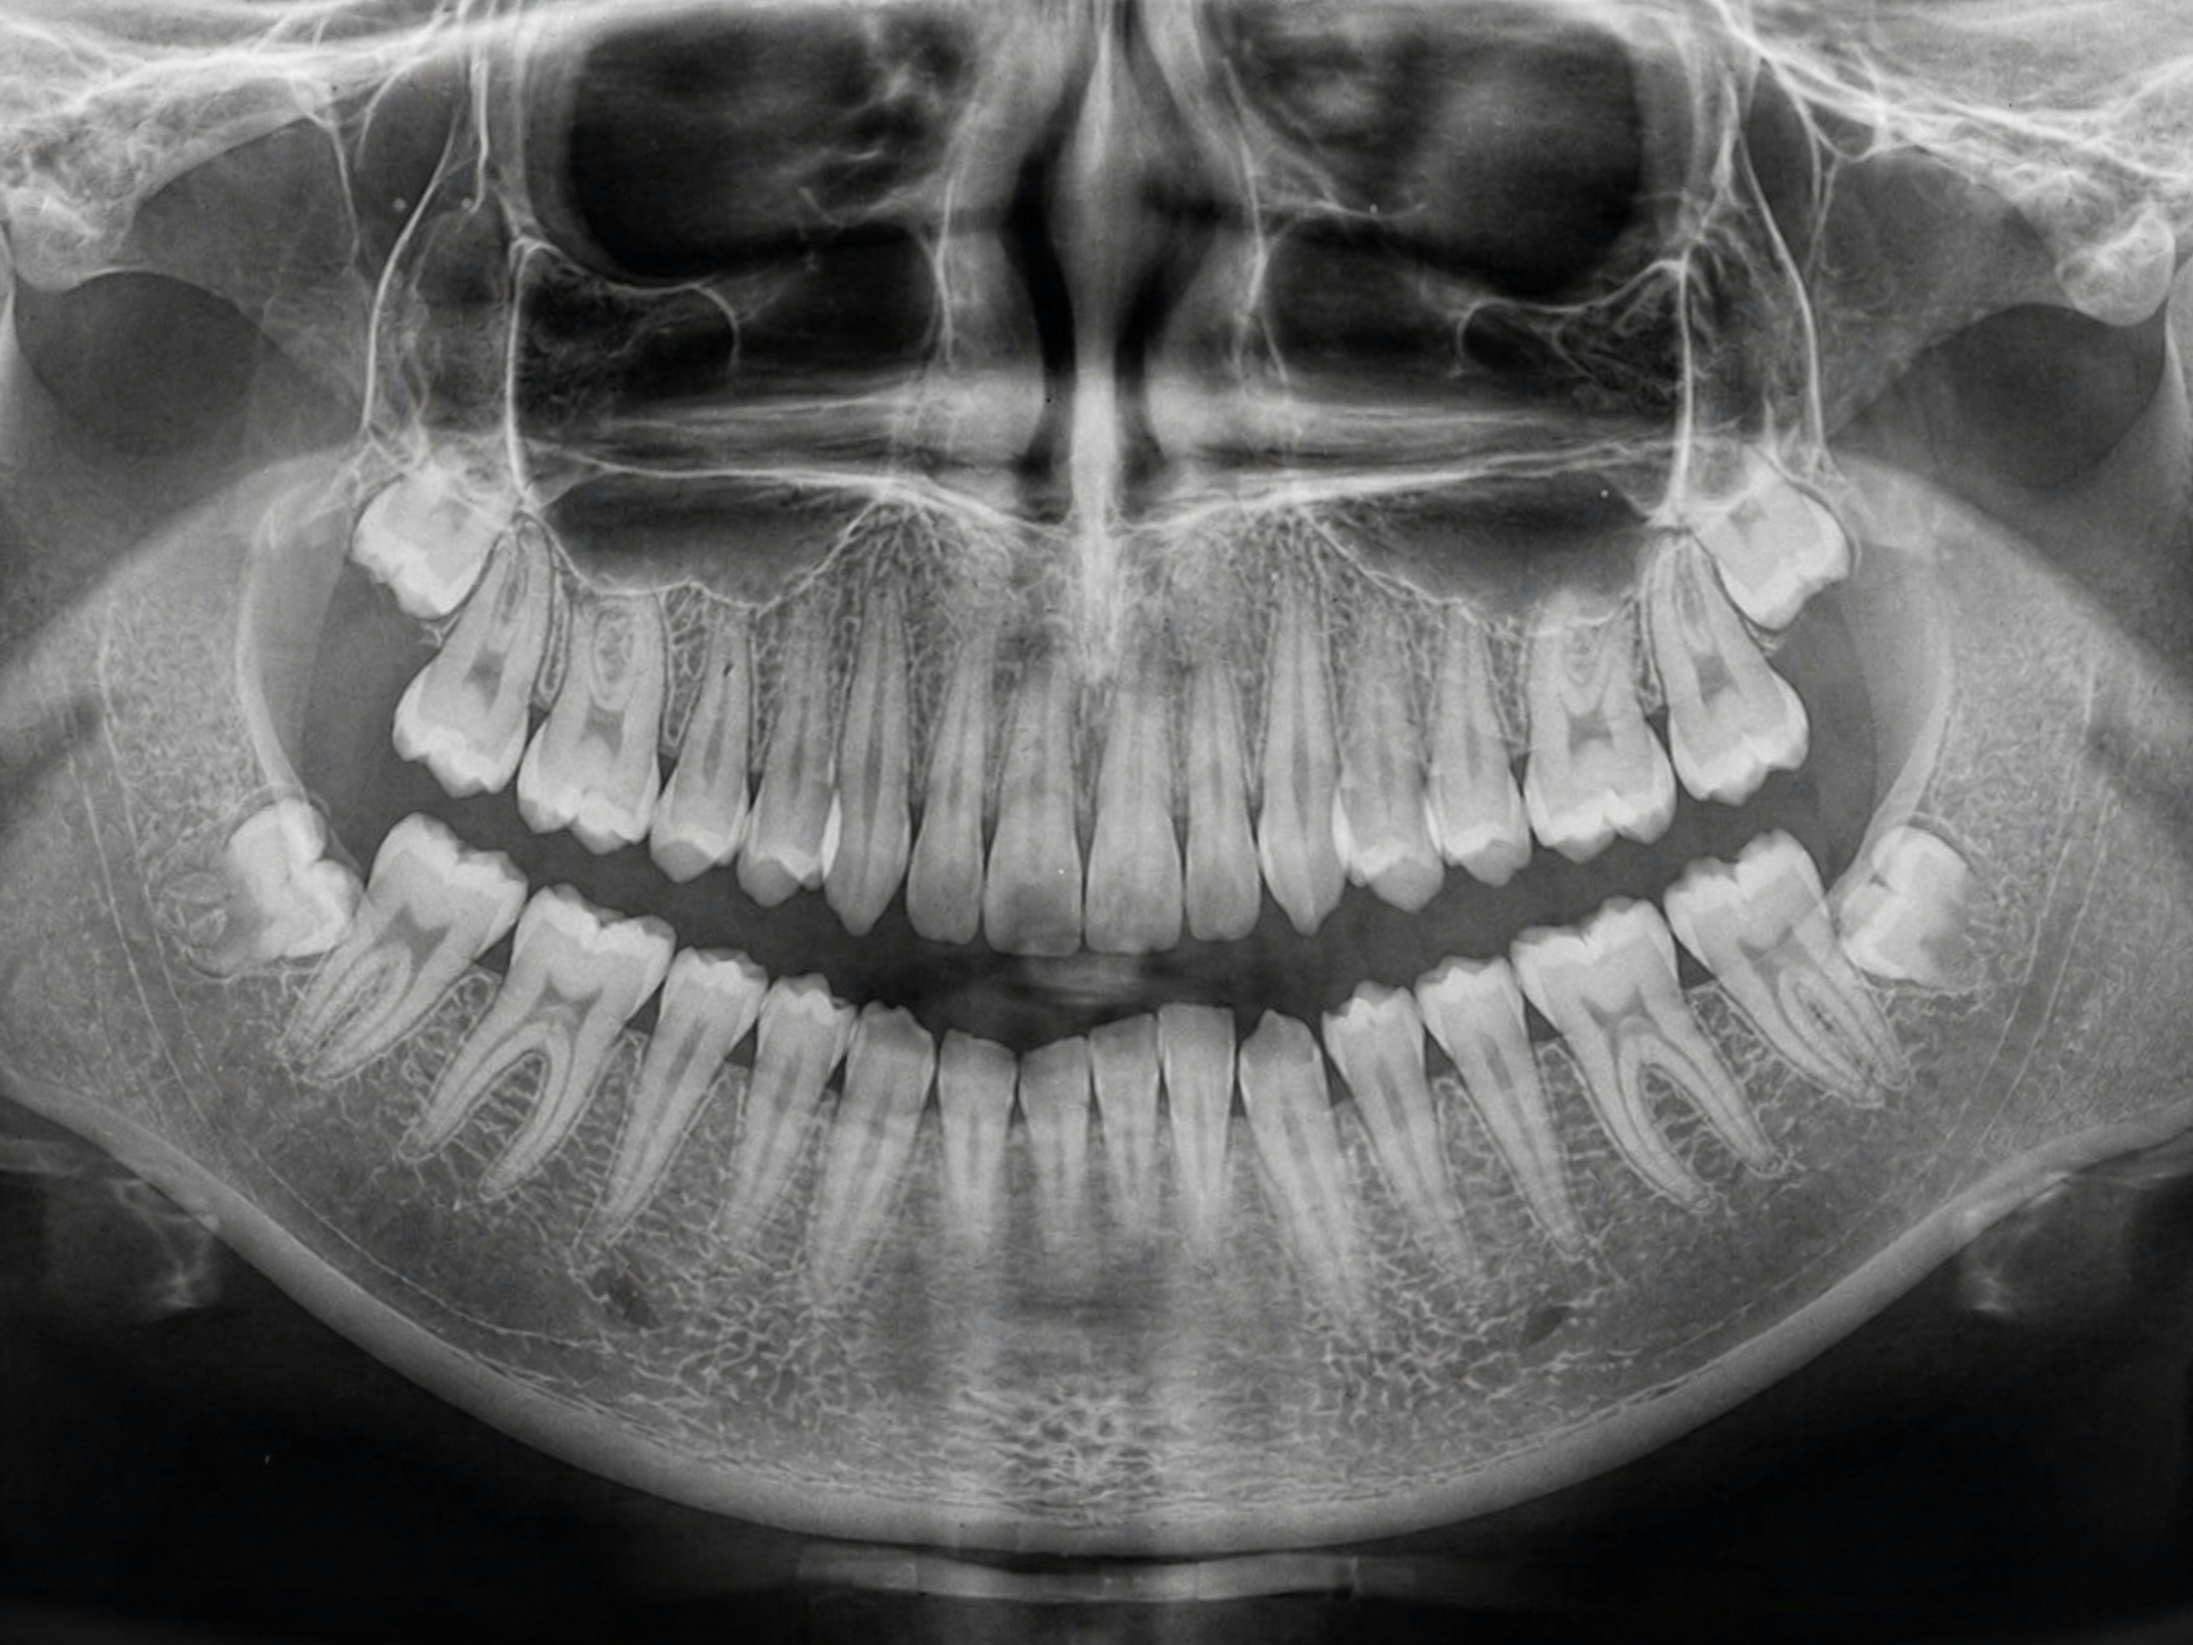
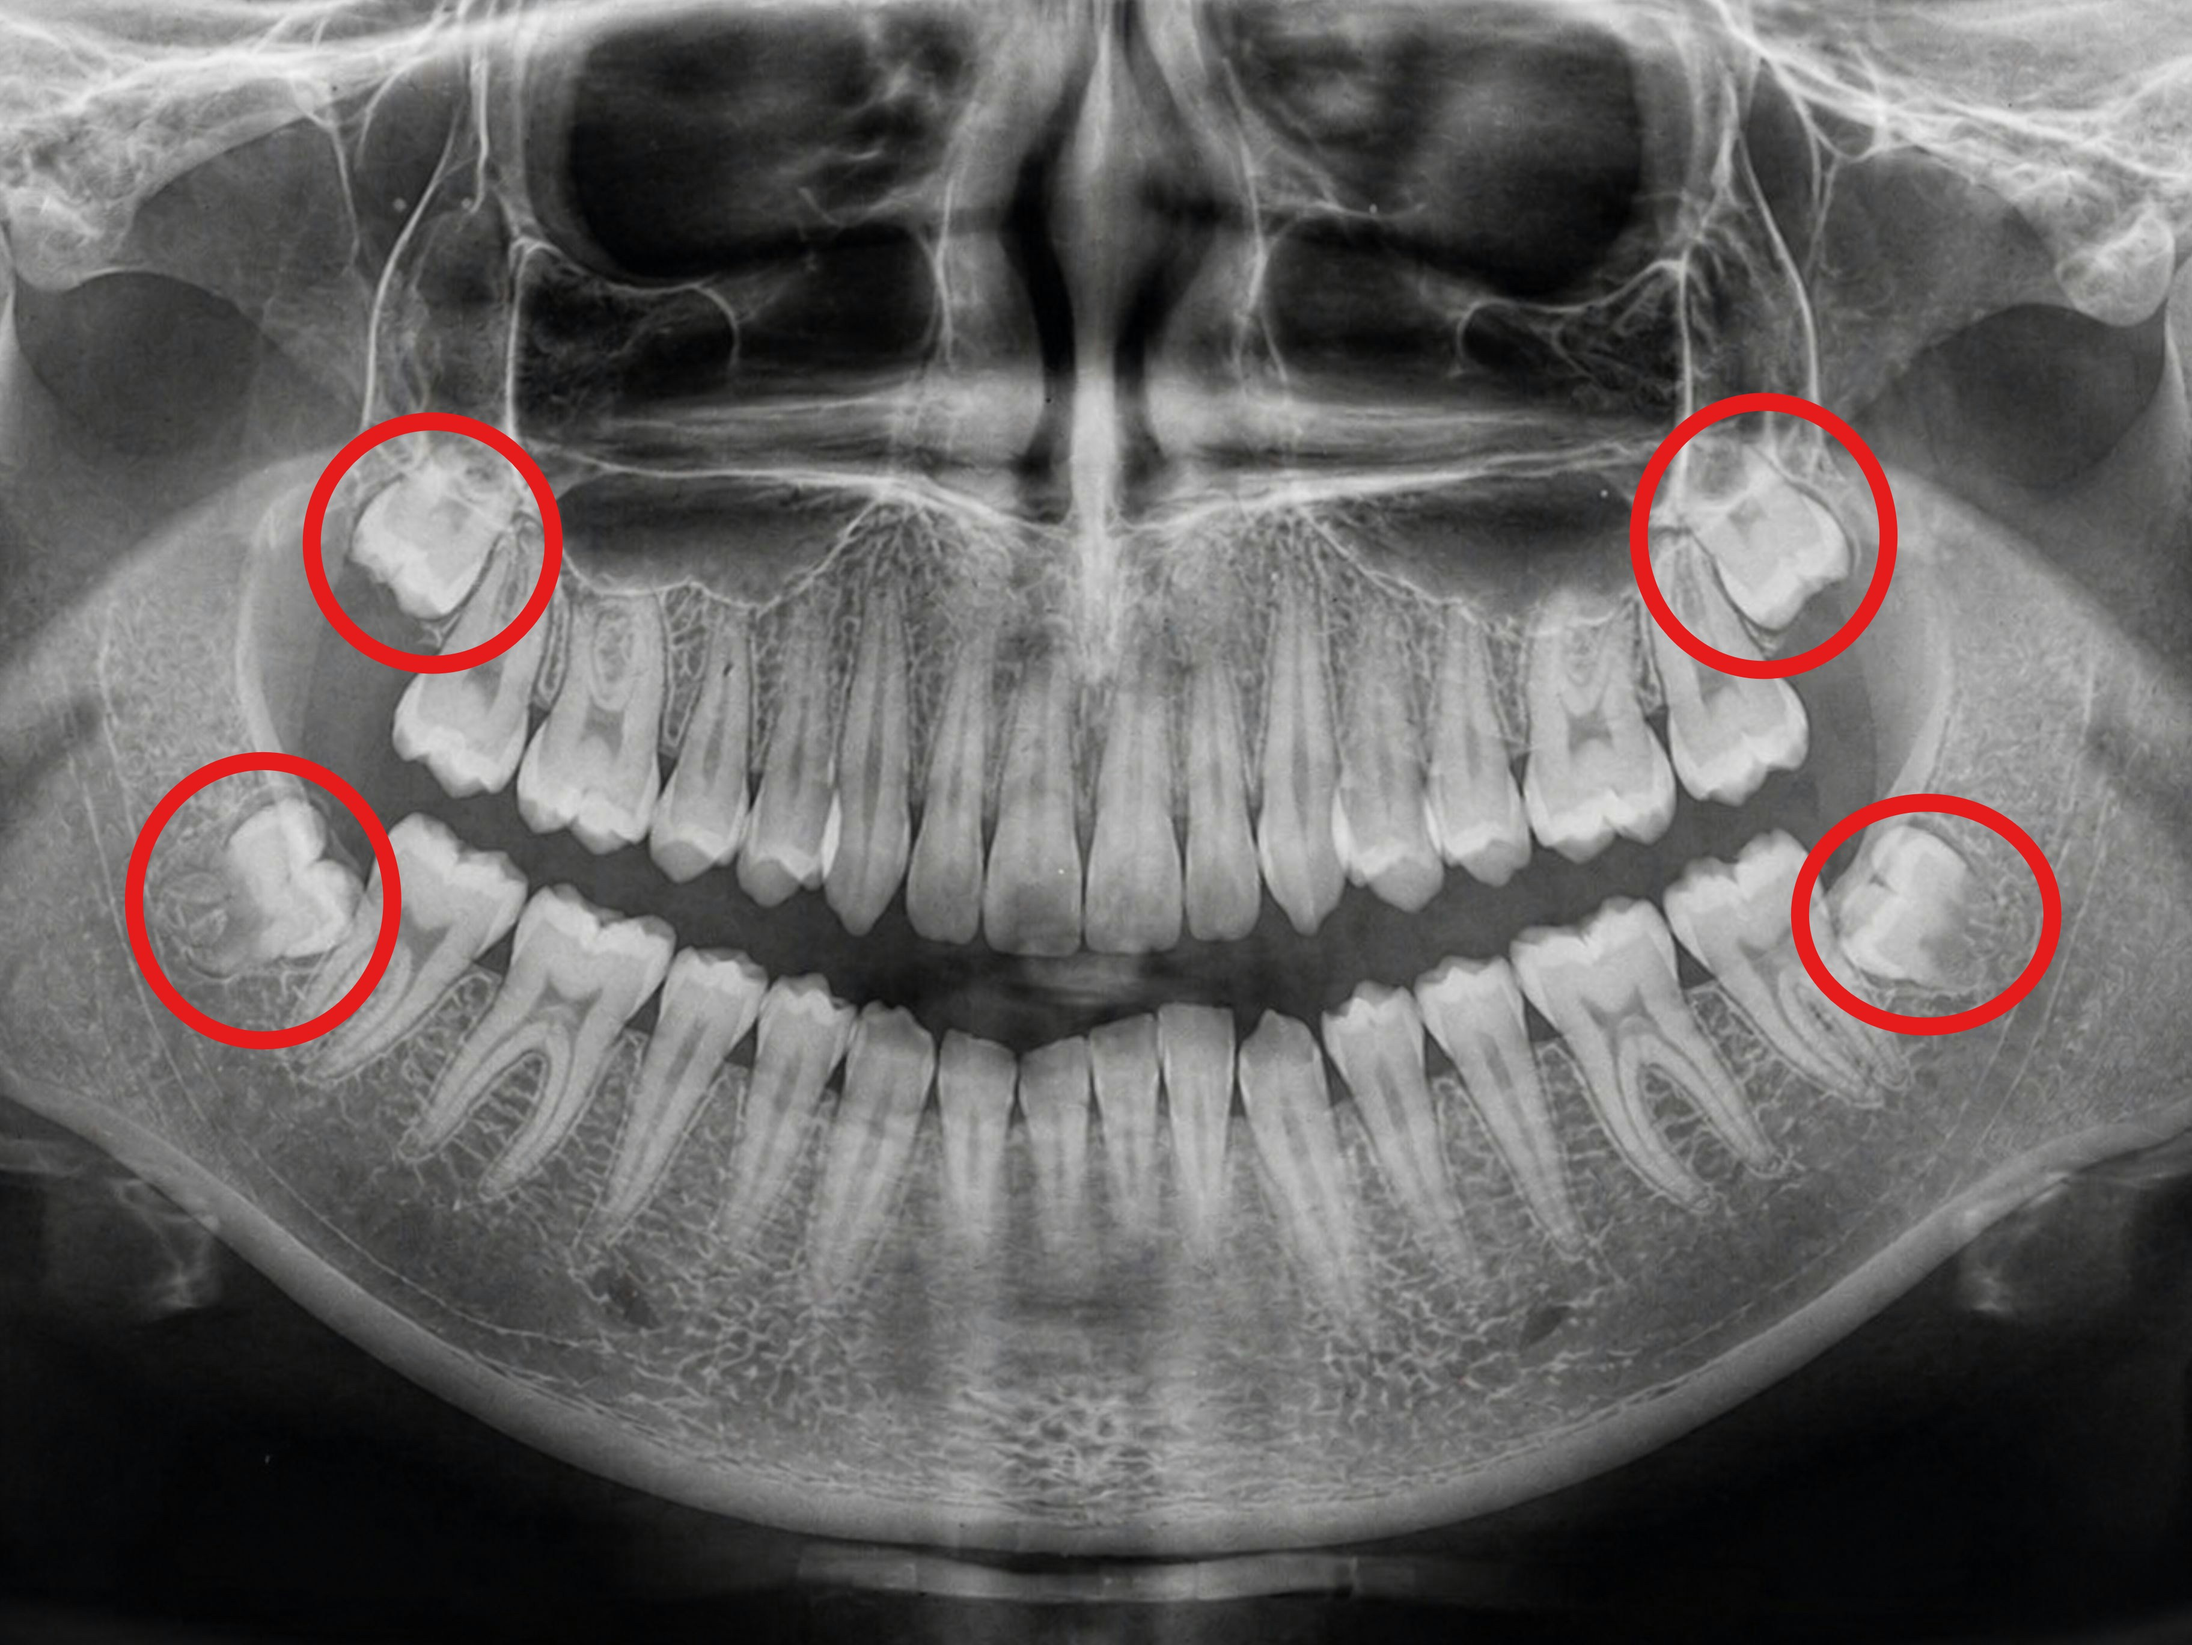
Changed somethings

diff --git a/src/App.js b/src/App.js
@@ -350,6 +350,13 @@ function HomePage({ go }) {
           border:"1px solid rgba(8,145,178,.14)", opacity:.7 }} />
         <div style={{ position:"absolute", top:"18%", right:"8%", width:280, height:280, borderRadius:"50%",
           border:"1px solid rgba(8,145,178,.1)" }} />
+           {/* Background logo watermark */}
+        <div style={{ position:"absolute", top:"50%", left:"50%",
+          transform:"translate(-50%,-50%)",
+          opacity:0.10, pointerEvents:"none", zIndex:0 }}>
+          <img src={require('./logo.png')} alt=""
+            style={{ width:700, height:700, objectFit:"contain" }} />
+        </div>
         <div style={{ maxWidth:1200, margin:"0 auto", padding:"72px 24px",
   display:"grid", gridTemplateColumns:"1fr 1fr", gap:64, alignItems:"center",
   position:"relative", zIndex:1, width:"100%" }} className="two-col">
@@ -369,9 +376,14 @@ function HomePage({ go }) {
               <span style={{ color:"#22d3ee", fontStyle:"italic" }}>Family Dentist</span><br/>
               in Lalor
             </h1>
-            <p style={{ fontSize:17, color:"rgba(255,255,255,.68)", lineHeight:1.75,
+            <p style={{ fontSize:15, color:"rgba(255,255,255,.55)", lineHeight:1.75,
               marginBottom:36, maxWidth:440 }}>
-              Healthy Smile, Confident You. Dr. Eyad Almashaal brings over 10 years of experience delivering complete dental and aesthetic care for the whole family.
+              <span style={{ display:"block", fontSize:20, fontWeight:700,
+                color:"#22d3ee", marginBottom:10, fontStyle:"italic" }}
+                className="serif">
+                Healthy Smile, Confident You.
+              </span>
+              Dr. Eyad Almashaal brings over 10 years of experience delivering complete dental and aesthetic care for the whole family.
             </p>
             <div style={{ display:"flex", gap:14, flexWrap:"wrap" }}>
               <button className="btn-p" onClick={() => go("book")}
@@ -515,7 +527,7 @@ function HomePage({ go }) {
               letterSpacing:"0.1em", textTransform:"uppercase", marginBottom:18 }}>Meet the Dentist</div>
             <h2 className="serif" style={{ fontSize:"clamp(30px,3.5vw,48px)", color:"#0a3550",
               fontWeight:600, lineHeight:1.12, marginBottom:18 }}>
-              Dr. Eyad<br/>Almashaal
+              Dr. Eyad Almashaal
             </h2>
             <p style={{ fontSize:15, color:"#475569", lineHeight:1.82, marginBottom:14 }}>
               Dr. Almashaal is a dedicated family dentist with over a decade of experience providing high-quality, compassionate dental care to the Lalor community.
@@ -524,7 +536,7 @@ function HomePage({ go }) {
               His gentle, patient-centred approach has helped thousands of patients achieve and maintain healthy, confident smiles — from routine check-ups to complex restorations.
             </p>
             <div style={{ display:"flex", flexDirection:"column", gap:9, marginBottom:30 }}>
-              {["Bachelor of Dental Surgery (BDS)","Member, Australian Dental Association","Focused on family & preventive care"].map(q => (
+              {["Bachelor of Dental Surgery (BDS)","Advanced training in cosmetic injection","Focused on family & preventive care"].map(q => (
                 <div key={q} style={{ display:"flex", alignItems:"center", gap:10 }}>
                   <div style={{ width:20, height:20, borderRadius:"50%", background:"#e0f7fa",
                     display:"flex", alignItems:"center", justifyContent:"center", flexShrink:0 }}>
@@ -1230,7 +1242,7 @@ function ServicesPage({ go, targetService }) {
       title:"Dental Bridges",
       desc:"A fixed restoration that replaces one or more missing teeth using neighbouring teeth as support.",
       meaning:"A dental bridge fills the gap left by one or more missing teeth. It consists of artificial teeth (pontics) anchored to crowns on the adjacent natural teeth — creating a fixed, non-removable replacement.",
-      includes:["Assessment and treatment planning","Preparation of supporting teeth","Impressions and temporary bridge","Custom bridge fabrication","Permanent cementation"],
+      includes:["Assessment and treatment planning","Preparation of supporting teeth","Digital impressions and temporary bridge","Custom bridge fabrication","Permanent cementation"],
       benefits:["Fixed — does not need to be removed","Restores chewing function and appearance","Prevents neighbouring teeth from shifting","More affordable than implants"],
       risks:["Supporting teeth require preparation (permanent)","Harder to clean under the bridge","May need replacing after 10–15 years"],
       expect:"Similar to crowns, bridges require 2 appointments over 2 weeks. The final result is a fixed, natural-looking replacement for your missing teeth that is easy to live with."
@@ -1277,7 +1289,7 @@ function ServicesPage({ go, targetService }) {
       includes:["Facial assessment and treatment planning","TGA-approved anti-wrinkle product","Precise injection technique","15 to 30 minute appointment","Review appointment if needed"],
       benefits:["Smooths wrinkles without surgery","Natural-looking results","Quick procedure with no downtime","Results last 3 to 4 months","Prevents deepening of lines over time"],
       risks:["Temporary bruising or swelling at injection sites","Headache (rare, short-lived)","Asymmetry if product migrates — very rare with experienced practitioners","Results are temporary — treatment needed every 3–4 months"],
-      expect:"Your appointment takes 15 to 30 minutes. A thorough facial assessment is performed first. Injections are quick with minimal discomfort. Results begin appearing within 3 to 5 days and are fully visible at 2 weeks. No downtime required."
+      expect:"Your appointment takes 15 to 30 minutes. A thorough facial assessment is performed first. Injections are quick with minimal discomfort. Results begin appearing within 7 to 10 days and are fully visible at 2 weeks. No downtime required."
     },
     {
       emoji:"😬", tag:"GENERAL",
@@ -1389,6 +1401,7 @@ function ServicesPage({ go, targetService }) {
       risks:["Minimal risk — protective device","May need replacing as teeth change in children"],
       expect:"We take impressions at one appointment and your custom guard is ready within a week. The fit is checked and any adjustments made. A well-fitted guard should feel secure and comfortable without restricting breathing."
     },
+    /*
     {
       emoji:"😴", tag:"GENERAL",
        photo:"grinding.jpg",
@@ -1400,6 +1413,7 @@ function ServicesPage({ go, targetService }) {
       risks:["Takes 1 to 2 weeks to adjust to wearing","Increased saliva initially","Splint must be cleaned daily"],
       expect:"Impressions are taken at your first appointment. Your splint is ready within 1 to 2 weeks. The fit is carefully checked and adjusted. Most patients notice reduced jaw pain within weeks of regular use."
     },
+    */
     {
       emoji:"🌟", tag:"COSMETIC",
        photo:"smile-design.jpg",
@@ -1493,7 +1507,7 @@ function AboutPage({ go }) {
               padding:"4px 14px", borderRadius:20, fontSize:11, fontWeight:700,
               letterSpacing:"0.1em", textTransform:"uppercase", marginBottom:20 }}>Biography</div>
             <h2 className="serif" style={{ fontSize:42, color:"#0a3550", fontWeight:600, lineHeight:1.1, marginBottom:24 }}>
-              Dr. Eyad<br/>Almashaal
+              Dr. Eyad Almashaal
             </h2>
             {["Dr. Eyad Almashaal is the principal dentist at Lalor Dental Clinic, bringing over a decade of experience in comprehensive family dentistry. He completed his Bachelor of Dental Surgery and has since dedicated his career to providing exceptional dental care to the Lalor community.",
               "With over 10 years of experience, Dr. Almashaal believes great dental care begins with listening — understanding each patient's unique concerns and goals. His gentle, patient-centred approach has helped thousands achieve and maintain healthy, confident smiles.",
@@ -1505,7 +1519,7 @@ function AboutPage({ go }) {
               Qualifications & Memberships
             </h3>
             <div style={{ display:"flex", flexDirection:"column", gap:10, marginBottom:32 }}>
-              {["Bachelor of Dental Surgery (BDS)","Member, Australian Dental Association (ADA)","Registered with AHPRA","Advanced training in cosmetic dentistry","Certified in oral implantology"].map(q => (
+              {["Bachelor of Dental Surgery (BDS)","Registered with AHPRA","Advanced training in cosmetic injection","Experienced  in oral surgery and dental implants"].map(q => (
                 <div key={q} style={{ display:"flex", alignItems:"center", gap:10 }}>
                   <div style={{ width:22, height:22, borderRadius:"50%", background:"#e0f7fa",
                     display:"flex", alignItems:"center", justifyContent:"center", flexShrink:0 }}>
@@ -1593,7 +1607,7 @@ function ContactPage() {
             {/* Social icons */}
             <div style={{ display:"flex", gap:10 }}>
               {[
-                { Icon:Facebook, url:"https://www.facebook.com/share/17wqnvDSLT/" },
+                { Icon:Facebook, url:"https://www.facebook.com/share/1HvuCCnwbu/" },
                 { Icon:Instagram, url:"https://www.instagram.com/lalordentalclinic" },
                 { Icon:MessageSquare, url:"https://lalordentalclinic.com.au/#contact" }
               ].map(({Icon,url},i) => (
@@ -1694,7 +1708,7 @@ function BookPage() {
             Book an Appointment
           </h1>
           <p style={{ color:"rgba(255,255,255,.68)", fontSize:17 }}>
-            Powered by Dental4Web — quick, easy, and secure
+            For appointments outside of our regular opening hours, please call us directly and we will do our best to accommodate you.
           </p>
         </div>
       </section>
